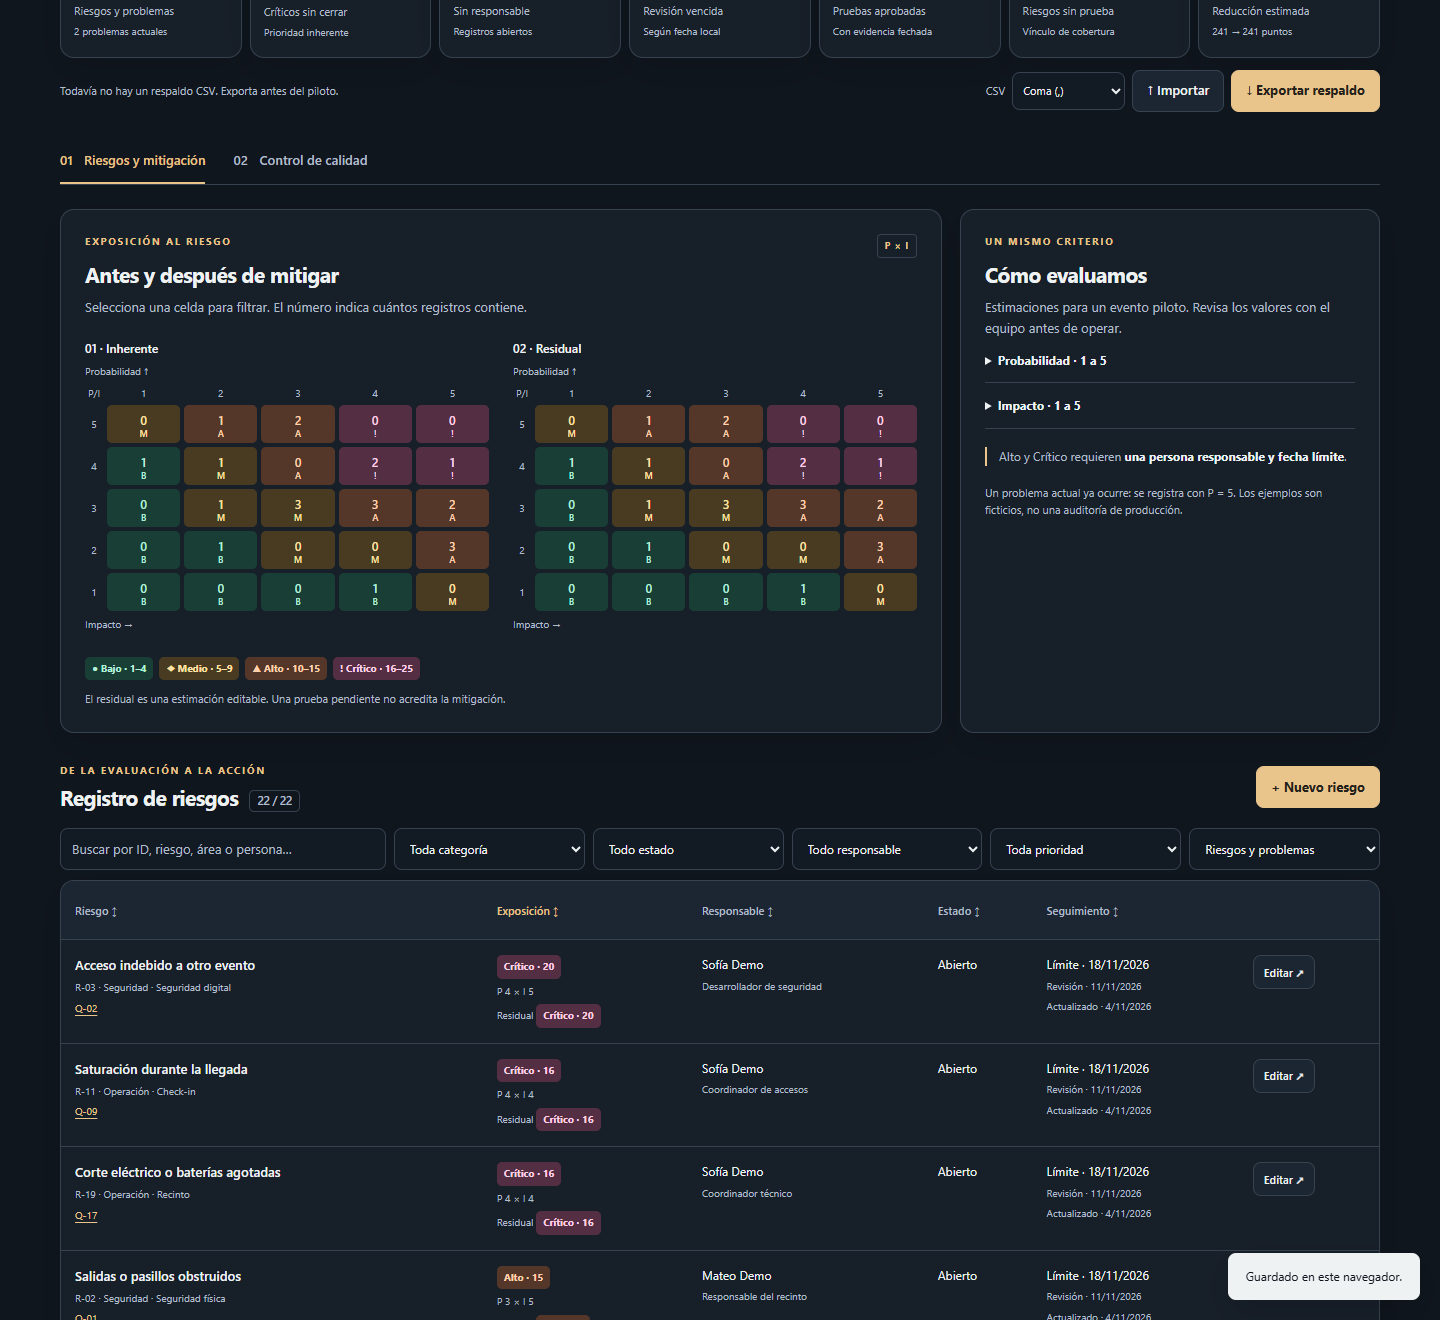
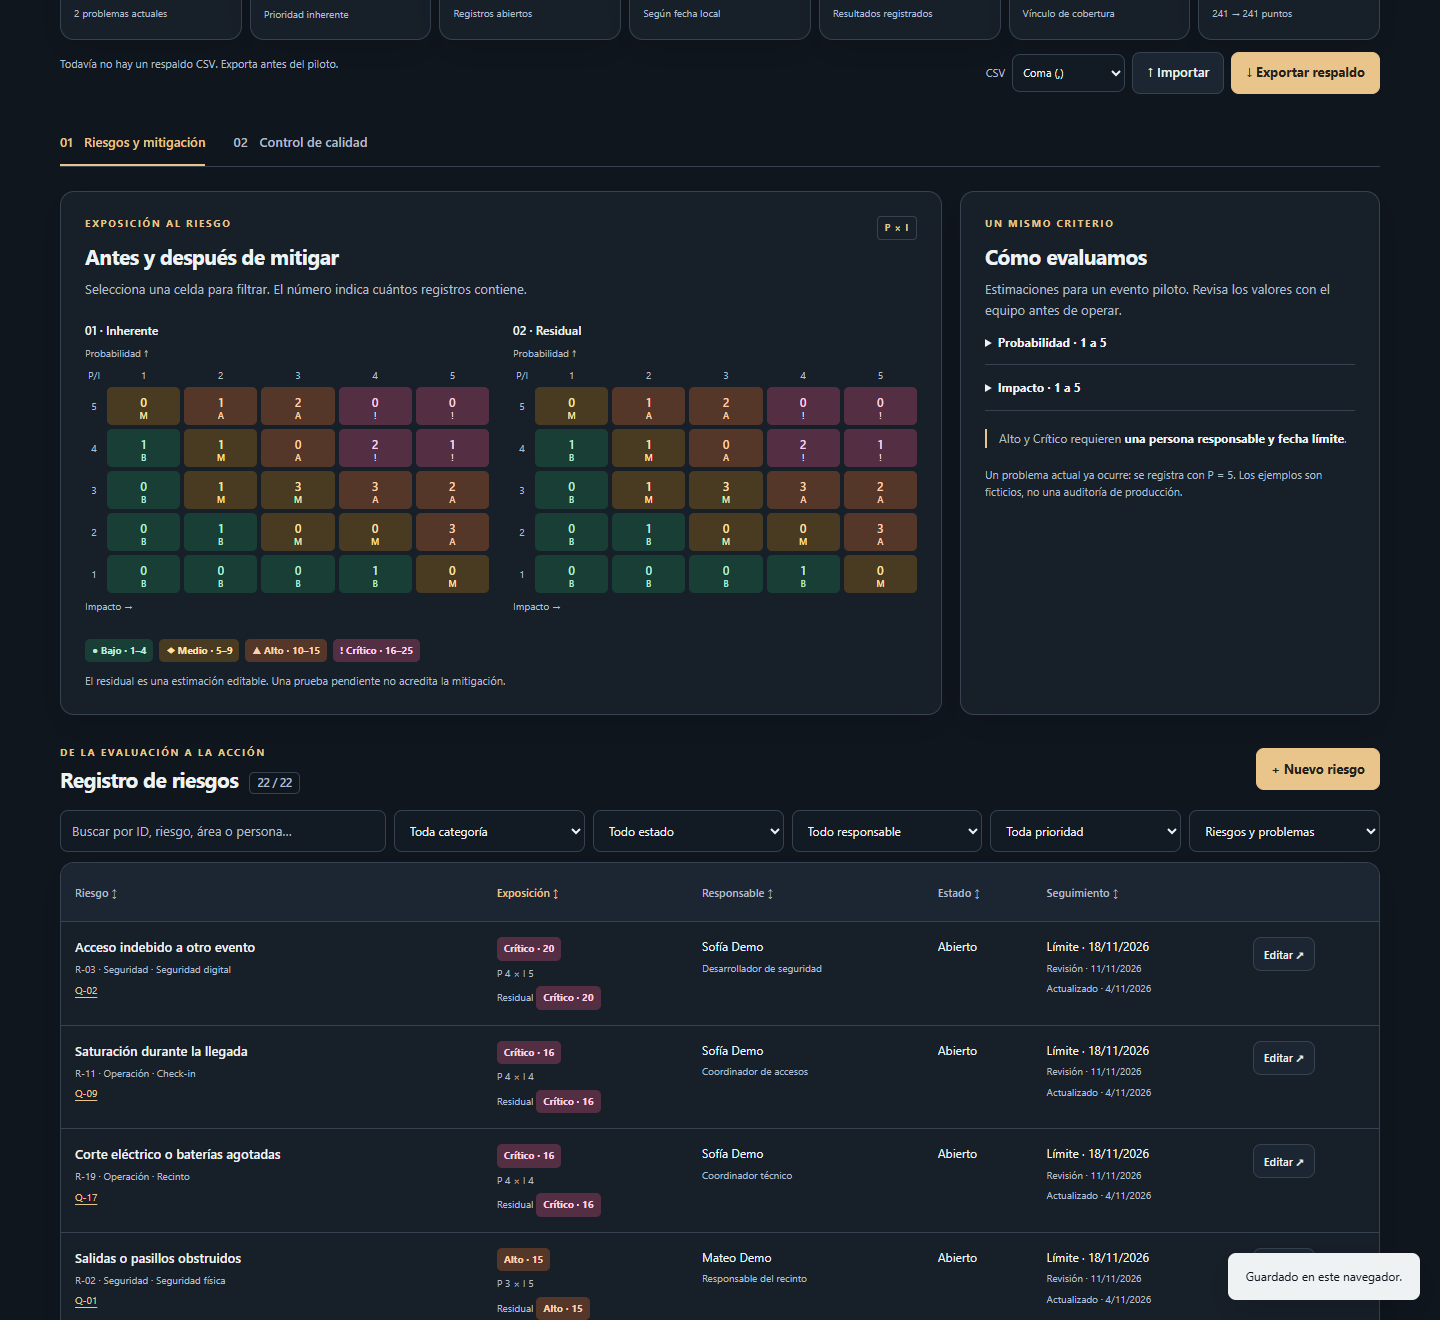
fix: reserve dashboard space to prevent loading layout shifts

diff --git a/style.css b/style.css
@@ -4,5 +4,7 @@
 @media(max-width:1100px){.metrics{grid-template-columns:repeat(4,minmax(0,1fr))}.riskgrid{grid-template-columns:1fr}.guide{display:grid;grid-template-columns:1fr 1fr;gap:8px 24px}.guide .eyebrow,.guide h2,.guide>p{grid-column:1/-1}.guide .rule-note{margin:8px 0}.backup-line{align-items:flex-start;flex-direction:column}.data-actions{justify-content:flex-start}.kanban{gap:10px}.check{padding:14px}}
 @media(max-width:760px){.wrap{width:calc(100% - 32px)}.topinner{min-height:70px}.local-label{display:none}.brand strong{font-size:17px}.hero{grid-template-columns:1fr;padding:32px 0 26px;gap:24px}.pilot-note{display:none}.hero-copy{font-size:13px}.metrics{grid-template-columns:repeat(2,minmax(0,1fr))}.metric:last-child{grid-column:1/-1}.metric{padding:13px}.metric strong{font-size:25px}.matrixpanel,.guide,.progressbox{padding:18px}.matrix-pair{gap:16px}.matrix button{min-height:42px}.tabs{gap:20px}.tabs button{font-size:11px}.tabs span{margin-left:4px}.sectionhead{flex-wrap:wrap}.toolbar select{max-width:none}.kanban{grid-template-columns:1fr}.tablebox{overflow:visible;border:0;background:transparent;box-shadow:none}table,tbody{display:block}thead{display:block;margin:8px 0 14px}thead tr{display:flex;flex-wrap:wrap;gap:10px}th{border:0;padding:0;background:none}th:last-child{display:none}tbody tr{display:grid;grid-template-columns:1fr 1fr;border:1px solid var(--border);border-radius:var(--radius);padding:16px;background:var(--panel);margin-bottom:12px;gap:12px}td{display:block;padding:0;border:0}td:first-child{width:auto;grid-column:1/-1}td::before{content:attr(data-label);display:block;color:var(--muted);font-size:10px;margin-bottom:4px}td:first-child::before,td:last-child::before{display:none}td:last-child{display:flex;align-items:end;justify-content:end}td strong{font-size:14px}.progress-heading{align-items:start;flex-direction:column}footer{gap:14px}.header-actions button{font-size:11px;padding:7px 9px}dialog{padding:18px}.check-options{grid-template-columns:1fr}}
 @media(max-width:440px){.matrix-pair{grid-template-columns:1fr}.guide{display:block}.guide h2{margin-bottom:10px}.formgrid{grid-template-columns:1fr}.formgrid .full{grid-column:auto}.data-actions{gap:6px}.data-actions button{font-size:11px;padding:7px 9px}.tabs{gap:14px}}
+#backup{min-height:35px}td{overflow-wrap:anywhere}.matrixpanel,.guide,.progressbox{padding:calc(var(--space)*3)}
+@media(max-width:760px){.matrixpanel,.guide,.progressbox{padding:calc(var(--space)*2.25)}}
 @media(prefers-reduced-motion:reduce){*,*::before,*::after{animation:none!important;transition:none!important;scroll-behavior:auto!important}dialog::backdrop{backdrop-filter:none}}
 @media print{ :root{color-scheme:light;--bg:white;--panel:white;--alt:#f0f0f0;--input:white;--text:#111;--muted:#444;--accent:#604218;--border:#bbb;--shadow:none}body{font-size:10pt}.wrap{width:100%}.topinner{min-height:45px}.hero{padding:20px 0;grid-template-columns:1fr}.hero h1{font-size:32px}.hero-copy{font-size:11px}.pilot-note,.header-actions,.data-actions,.tabs,.toolbar,.chips,footer button,#toast,dialog,#storageNotice,#backup,.sectionhead>button,td:last-child,.checkfoot button,.skip{display:none!important}#risks[hidden],#quality[hidden]{display:block!important}.metrics{grid-template-columns:repeat(7,1fr)}.metric{padding:8px}.metric strong{font-size:20px}.riskgrid{grid-template-columns:1fr}.guide{display:block}.guide details{display:inline-block;width:48%;vertical-align:top}.guide details ol{display:block!important}.matrix-pair{grid-template-columns:1fr 1fr}.matrix button{border:1px solid #777!important;color:#111;background:#eee}.matrix{break-inside:avoid}.panel{box-shadow:none}.tablebox{overflow:visible}table{display:table}thead{display:table-header-group}tbody{display:table-row-group}tr,tbody tr,thead tr{display:table-row}th,td{display:table-cell;font-size:9pt;padding:8px;border-bottom:1px solid #bbb}td::before{display:none}th button{display:inline;color:#111}td:first-child{width:35%}.kanban{display:block}.check,.metric,tr{break-inside:avoid}.kanban-column{background:white}.low,.mid,.high,.critical{color:#111;background:#eee;border:1px solid #aaa}.risk-link{background:none;color:#111;border:0;padding:0;min-height:0}a{color:#111}.sectionhead{margin-top:22px}.eyebrow{color:#444}.backup-line{margin:8px 0}footer{margin-top:20px}.count{color:#111}#asOf{font-size:9pt}}

diff --git a/index.html b/index.html
@@ -10,7 +10,9 @@
 <main class="wrap" id="main">
 <section class="hero" aria-labelledby="pageTitle"><div><p class="eyebrow">OPERACIÓN CON CRITERIO <span aria-hidden="true">/</span> COCHABAMBA, BO</p><h1 id="pageTitle">Un piloto listo.<br><i>Menos incertidumbre.</i></h1><p class="hero-copy">Anticipa lo que puede fallar. Define quién actúa.<br>Comprueba que cada medida tenga evidencia.</p></div><aside class="pilot-note"><span class="tag">EVENTFLOW AI · PILOTO</span><p>Riesgos y<br><strong>control de calidad</strong></p><div class="note-line"></div><small>Web · App móvil · Check-in<br>Inventario · Plano del salón</small><span class="version">02 / ESPACIO DE TRABAJO</span></aside></section>
 <div id="storageNotice" class="notice danger" role="alert" hidden><p id="storageMessage"></p><div><button id="reloadExternal" type="button" hidden>Cargar cambios de otra pestaña</button><button id="downloadRaw" type="button">Descargar copia guardada</button></div></div>
-<div class="overview-heading"><h2>Estado del piloto</h2><span class="muted" id="asOf"></span></div><div class="metrics" id="metrics" aria-label="Resumen ejecutivo"></div>
+<div class="overview-heading"><h2>Estado del piloto</h2><span class="muted" id="asOf"></span></div><div class="metrics" id="metrics" aria-label="Resumen ejecutivo" aria-busy="true">
+<div class="metric"><strong>—</strong><span>Riesgos y problemas</span><small>Problemas actuales</small></div><div class="metric emphasis"><strong>—</strong><span>Críticos sin cerrar</span><small>Prioridad inherente</small></div><div class="metric"><strong>—</strong><span>Sin responsable</span><small>Registros abiertos</small></div><div class="metric"><strong>—</strong><span>Revisión vencida</span><small>Según fecha local</small></div><div class="metric"><strong>—</strong><span>Pruebas aprobadas</span><small>Con evidencia fechada</small></div><div class="metric"><strong>—</strong><span>Riesgos sin prueba</span><small>Vínculo de cobertura</small></div><div class="metric"><strong>—</strong><span>Reducción estimada</span><small>Inherente → residual</small></div>
+</div>
 <div class="backup-line"><p id="backup" role="status" aria-live="polite"></p><div class="data-actions"><label class="inline-label" for="delimiter">CSV</label><select id="delimiter" aria-label="Separador CSV"><option value=";">Punto y coma (;)</option><option value=",">Coma (,)</option></select><button id="import" type="button">↑ Importar</button><button id="export" type="button" class="primary">↓ Exportar respaldo</button></div></div>
 <nav class="tabs" aria-label="Secciones"><button id="riskTab" type="button" aria-pressed="true" aria-controls="risks">01 <span>Riesgos y mitigación</span></button><button id="qaTab" type="button" aria-pressed="false" aria-controls="quality">02 <span>Control de calidad</span></button></nav>
 <section id="risks" aria-label="Riesgos y mitigación"><div class="riskgrid">

diff --git a/app.js b/app.js
@@ -54,11 +54,12 @@ function renderMetrics() {
     [open.filter(r=>score(r)>=16).length,'Críticos sin cerrar','Prioridad inherente'],
     [open.filter(r=>!r.owner.trim()).length,'Sin responsable','Registros abiertos'],
     [open.filter(r=>r.reviewDate && r.reviewDate<today()).length,'Revisión vencida','Según fecha local'],
-    [`${state.checks.filter(q=>q.status==='Aprobada').length}/${state.checks.length}`,'Pruebas aprobadas','Con evidencia fechada'],
+    [`${state.checks.filter(q=>q.status==='Aprobada').length}/${state.checks.length}`,'Pruebas aprobadas','Resultados registrados'],
     [state.risks.filter(r=>!state.checks.some(q=>q.risks.includes(r.id))).length,'Riesgos sin prueba','Vínculo de cobertura'],
     [`${reduction} %`,'Reducción estimada',`${inherent} → ${residual} puntos`]
   ];
   $('metrics').innerHTML = metrics.map(([n,label,detail],i)=>`<div class="metric ${i===1?'emphasis':''}"><strong>${n}</strong><span>${label}</span><small>${detail}</small></div>`).join('');
+  $('metrics').setAttribute('aria-busy','false');
   $('asOf').textContent = `Actualizado · ${dateLabel(state.updatedAt)}`;
   $('backup').textContent = memoryOnly ? 'Cambios solo en memoria. Exporta antes de salir.' : backupMessage(state) || `Respaldo exportado · ${dateLabel(state.lastExportAt)}`;
 }
@@ -82,7 +83,7 @@ function renderMatrix() {
 function refreshOptions(id, values, label) {
   const selected=$(id).value;
   $(id).innerHTML=`<option value="">${label}</option>`+[...new Set(values)].sort((a,b)=>a.localeCompare(b,'es')).map(v=>`<option value="${esc(v)}">${esc(v==='_unassigned'?'Sin asignar':v)}</option>`).join('');
-  $(id).value=selected;
+  $(id).value=[...$(id).options].some(option=>option.value===selected)?selected:'';
 }
 function renderRisks() {
   const query=normalize($('search').value.trim());
